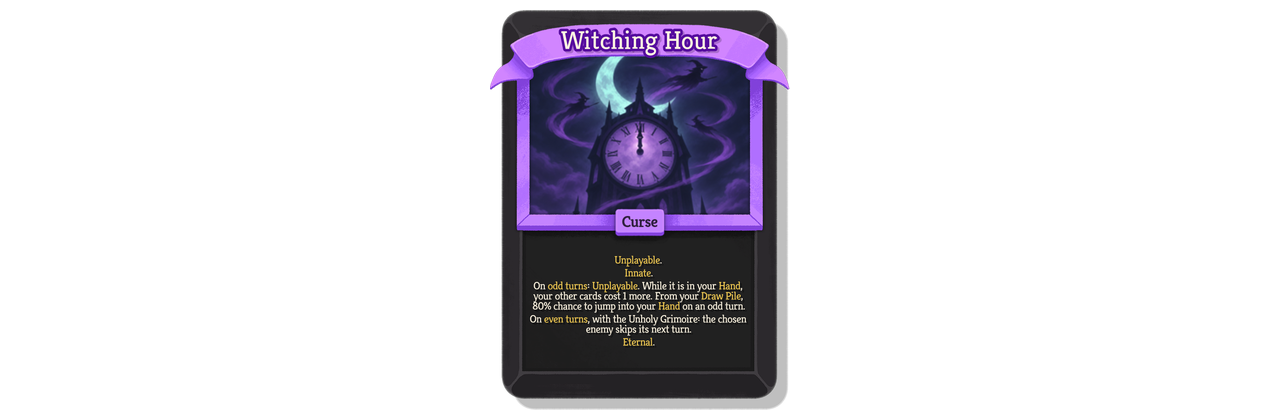
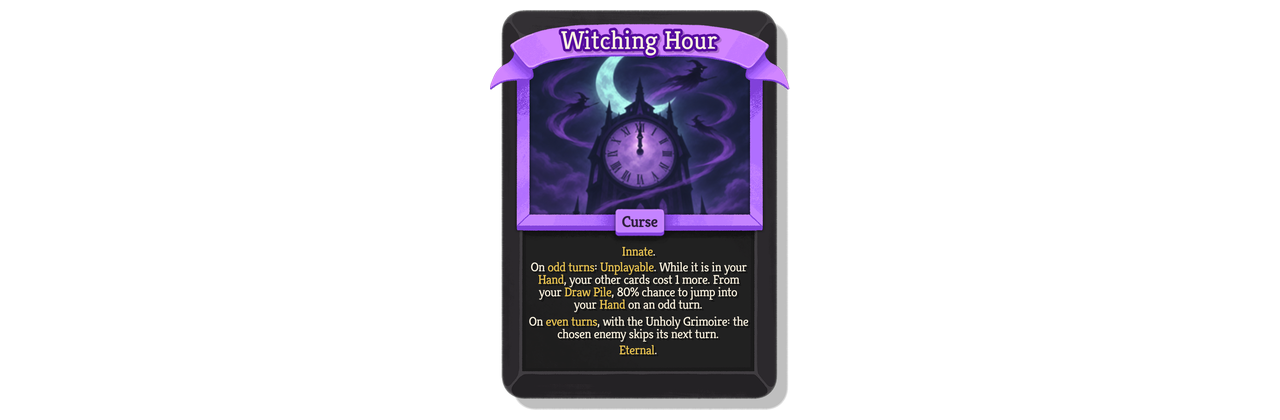
1.11.6: Witching Hour drops the engine's leading Unplayable line

Changed region(s): [[0.4062, 0.5881, 0.5938, 0.8667]]

diff --git a/src/Curses/SpoonWitchingHour.cs b/src/Curses/SpoonWitchingHour.cs
@@ -5,6 +5,7 @@ using MegaCrit.Sts2.Core.Entities.Ascension;
 using MegaCrit.Sts2.Core.Entities.Cards;
 using MegaCrit.Sts2.Core.Entities.Players;
 using MegaCrit.Sts2.Core.GameActions.Multiplayer;
+using MegaCrit.Sts2.Core.Localization;
 using MegaCrit.Sts2.Core.Models;
 using MegaCrit.Sts2.Core.Models.Cards;
 using MegaCrit.Sts2.Core.Random;
@@ -65,4 +66,31 @@ public static class WitchingHourAscensionPatch
 		player.Deck.AddInternal(curse, index, silent: true);
 		SpoonLog.Info("overcursed: Ascender's Bane replaced by the Witching Hour");
 	}
+}
+
+/// <summary>
+/// The card's own text already says "On odd turns: Unplayable", so the engine's leading "Unplayable." keyword line is
+/// dropped from its description (owner, 2026-11-24). The keyword itself stays: it blocks the play without the Grimoire
+/// and keeps vanilla filters (enchantments, afflictions, "draw a playable card" effects) treating it as unplayable.
+/// </summary>
+[HarmonyPatch]
+public static class WitchingHourKeywordLinePatch
+{
+	public static System.Reflection.MethodBase TargetMethod() =>
+		AccessTools.GetDeclaredMethods(typeof(CardModel)).First(m => m.Name == "GetDescriptionForPile" && m.GetParameters().Length == 3);
+
+	public static void Postfix(CardModel __instance, ref string __result)
+	{
+		if (__instance is not SpoonWitchingHour) return;
+		var lines = __result.Split('\n').ToList();
+		int index = lines.IndexOf(UnplayableLine());
+		if (index < 0) return;
+		lines.RemoveAt(index);
+		__result = string.Join('\n', lines);
+	}
+
+	/// <summary>The engine's keyword line (<c>CardKeywordExtensions.GetCardText</c>, internal): gold title, then the period.</summary>
+	private static string UnplayableLine() =>
+		"[gold]" + new LocString("card_keywords", "UNPLAYABLE.title").GetFormattedText() + "[/gold]"
+		+ new LocString("card_keywords", "PERIOD").GetRawText();
 }

diff --git a/src/ModEntry.cs b/src/ModEntry.cs
@@ -9,7 +9,7 @@ namespace SlaySpoon;
 [ModInitializer(nameof(Initialize))]
 public static class ModEntry
 {
-	public const string Version = "1.11.5";
+	public const string Version = "1.11.6";
 
 	public static void Initialize()
 	{

diff --git a/README.md b/README.md
@@ -241,7 +241,7 @@ keys and Act 4 without the unlock. Daily runs are unchanged. It still needs in-g
 
 ## Development status — 2026-11-23
 
-Version **1.11.5**: clearer Witching Hour text; 1.11.4: small fixes (Useless Relics throws the mod's combat-start relics); 1.11.3: restaurant ambience in the Spoon act; 1.11.2: Overcursed's cursed relics at merchants and events; 1.11.1: the Witching Hour curse; 1.11.0: the Overcursed mode and the Forge ladder, after forged curses (1.10.0), King Midas's relic sale (1.9.0), a long wave of fixes found
+Version **1.11.6**: the Witching Hour no longer shows "Unplayable" twice; 1.11.5: clearer Witching Hour text; 1.11.4: small fixes (Useless Relics throws the mod's combat-start relics); 1.11.3: restaurant ambience in the Spoon act; 1.11.2: Overcursed's cursed relics at merchants and events; 1.11.1: the Witching Hour curse; 1.11.0: the Overcursed mode and the Forge ladder, after forged curses (1.10.0), King Midas's relic sale (1.9.0), a long wave of fixes found
 by automated co-op runs (1.8.3–1.8.34), Glass Cannon (1.8.0), Cursed Deck, Achilles' Heel and seven Custom Run challenges
 (1.7.0), The Forge (1.4.0) and the port to game version 0.111.1 (1.3.8). The build has no warnings and every unit test
 passes. Most features still need in-game checks; the [testing checklists](docs/testing/) record them.

diff --git a/CLAUDE.md b/CLAUDE.md
@@ -1,7 +1,7 @@
 # Slay the Spoon — notes for Claude
 
 Slay the Spire 2 mod (StS2 Early Access v0.111.1, Godot 4.5.1 + C# .NET 9, Harmony, BaseLib dependency) that brings
-Slay the Spire 1 content into StS2 and adds Custom Run modes set by the lobby host. Version **1.11.5** (in both
+Slay the Spire 1 content into StS2 and adds Custom Run modes set by the lobby host. Version **1.11.6** (in both
 `mod/SlaySpoon.json` and `src/ModEntry.cs`). `README.md` is the player view; `docs/superpowers/specs/` holds the
 approved design of every feature.
 
